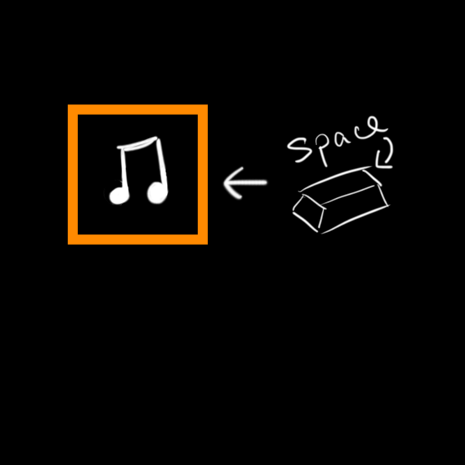
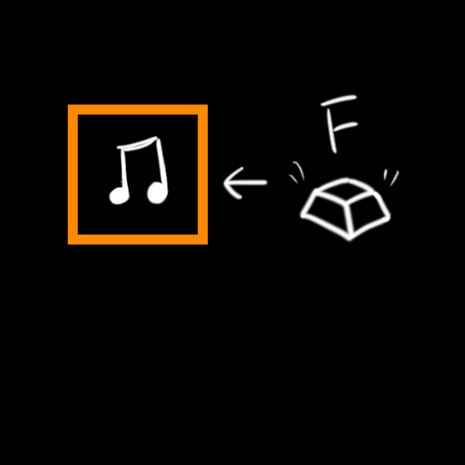
help image added

Changed region(s): [[0.6022, 0.1806, 0.8731, 0.5419]]

diff --git a/script.js b/script.js
@@ -63,7 +63,7 @@ var emojiRhythm = {
         scorePow: 5,
         scoreFriend: 500,
         playTime: 100,
-        rhythmKey: 'space'
+        rhythmKey: 'f'
     },
     // ---
     layers: {},
@@ -127,10 +127,10 @@ var emojiRhythm = {
 
             // help
             var helpText = [
-                "リズムに合わせて、\nスペースキーを押せば加速して、得点が高い。",
+                "リズムに合わせて、\n「F」キーを押せば加速して、得点が高い。",
                 "白い絵文字を避けながら、\n色のある絵文字をキャッチできれば得点する。",
                 "タイムリミットは" + self.setting.playTime + "秒、",
-                "音量を大きくして、ゲーム・スタート！"
+                "\n\n音量を大きくして、ゲーム・スタート！"
             ];
             var $help = new PointText([self.setting.size.width / 2, self.setting.size.height / 2 + 100]);
             $help.name = 'help';

diff --git a/index.html b/index.html
@@ -16,6 +16,7 @@
 <img id="help_0" src="help_0.png" />
 <img id="help_1" src="help_1.png" />
 <img id="help_2" src="help_2.png" />
+<img id="help_3" src="help_3.png" />
 
 <canvas id="canvas"></canvas>
 
